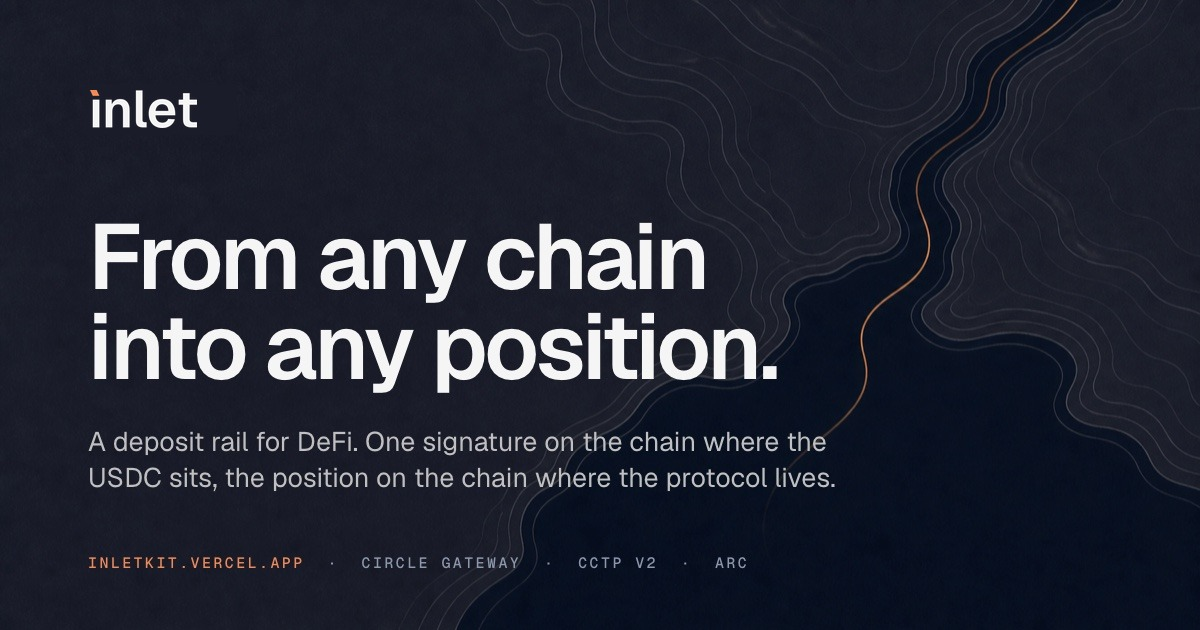
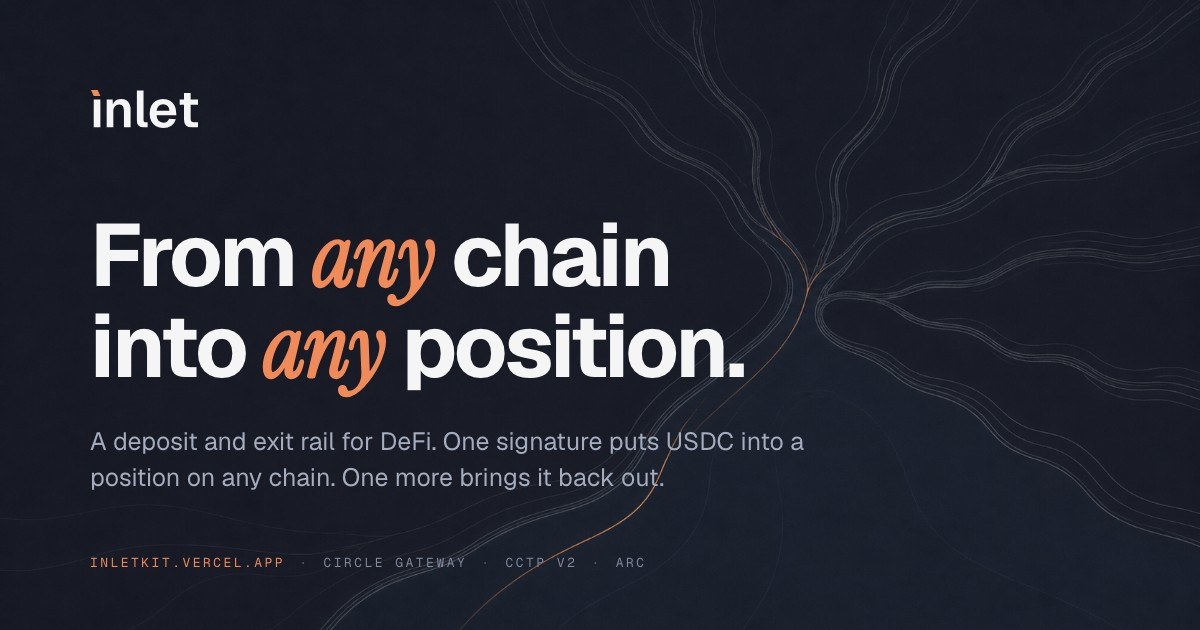
Give the social card the orange any words and the way out in its subtitle

diff --git a/UI/app/layout.tsx b/UI/app/layout.tsx
@@ -20,9 +20,9 @@ export const metadata: Metadata = {
     description: site.description,
     siteName: site.name,
     type: "website",
-    images: [{ url: "/og.jpg", width: 1200, height: 630, alt: "Inlet, from any chain into any position and back" }],
+    images: [{ url: "/og.jpg?v=2", width: 1200, height: 630, alt: "Inlet, from any chain into any position and back" }],
   },
-  twitter: { card: "summary_large_image", images: ["/og.jpg"] },
+  twitter: { card: "summary_large_image", images: ["/og.jpg?v=2"] },
 };
 
 export default function RootLayout({ children }: { children: ReactNode }) {
